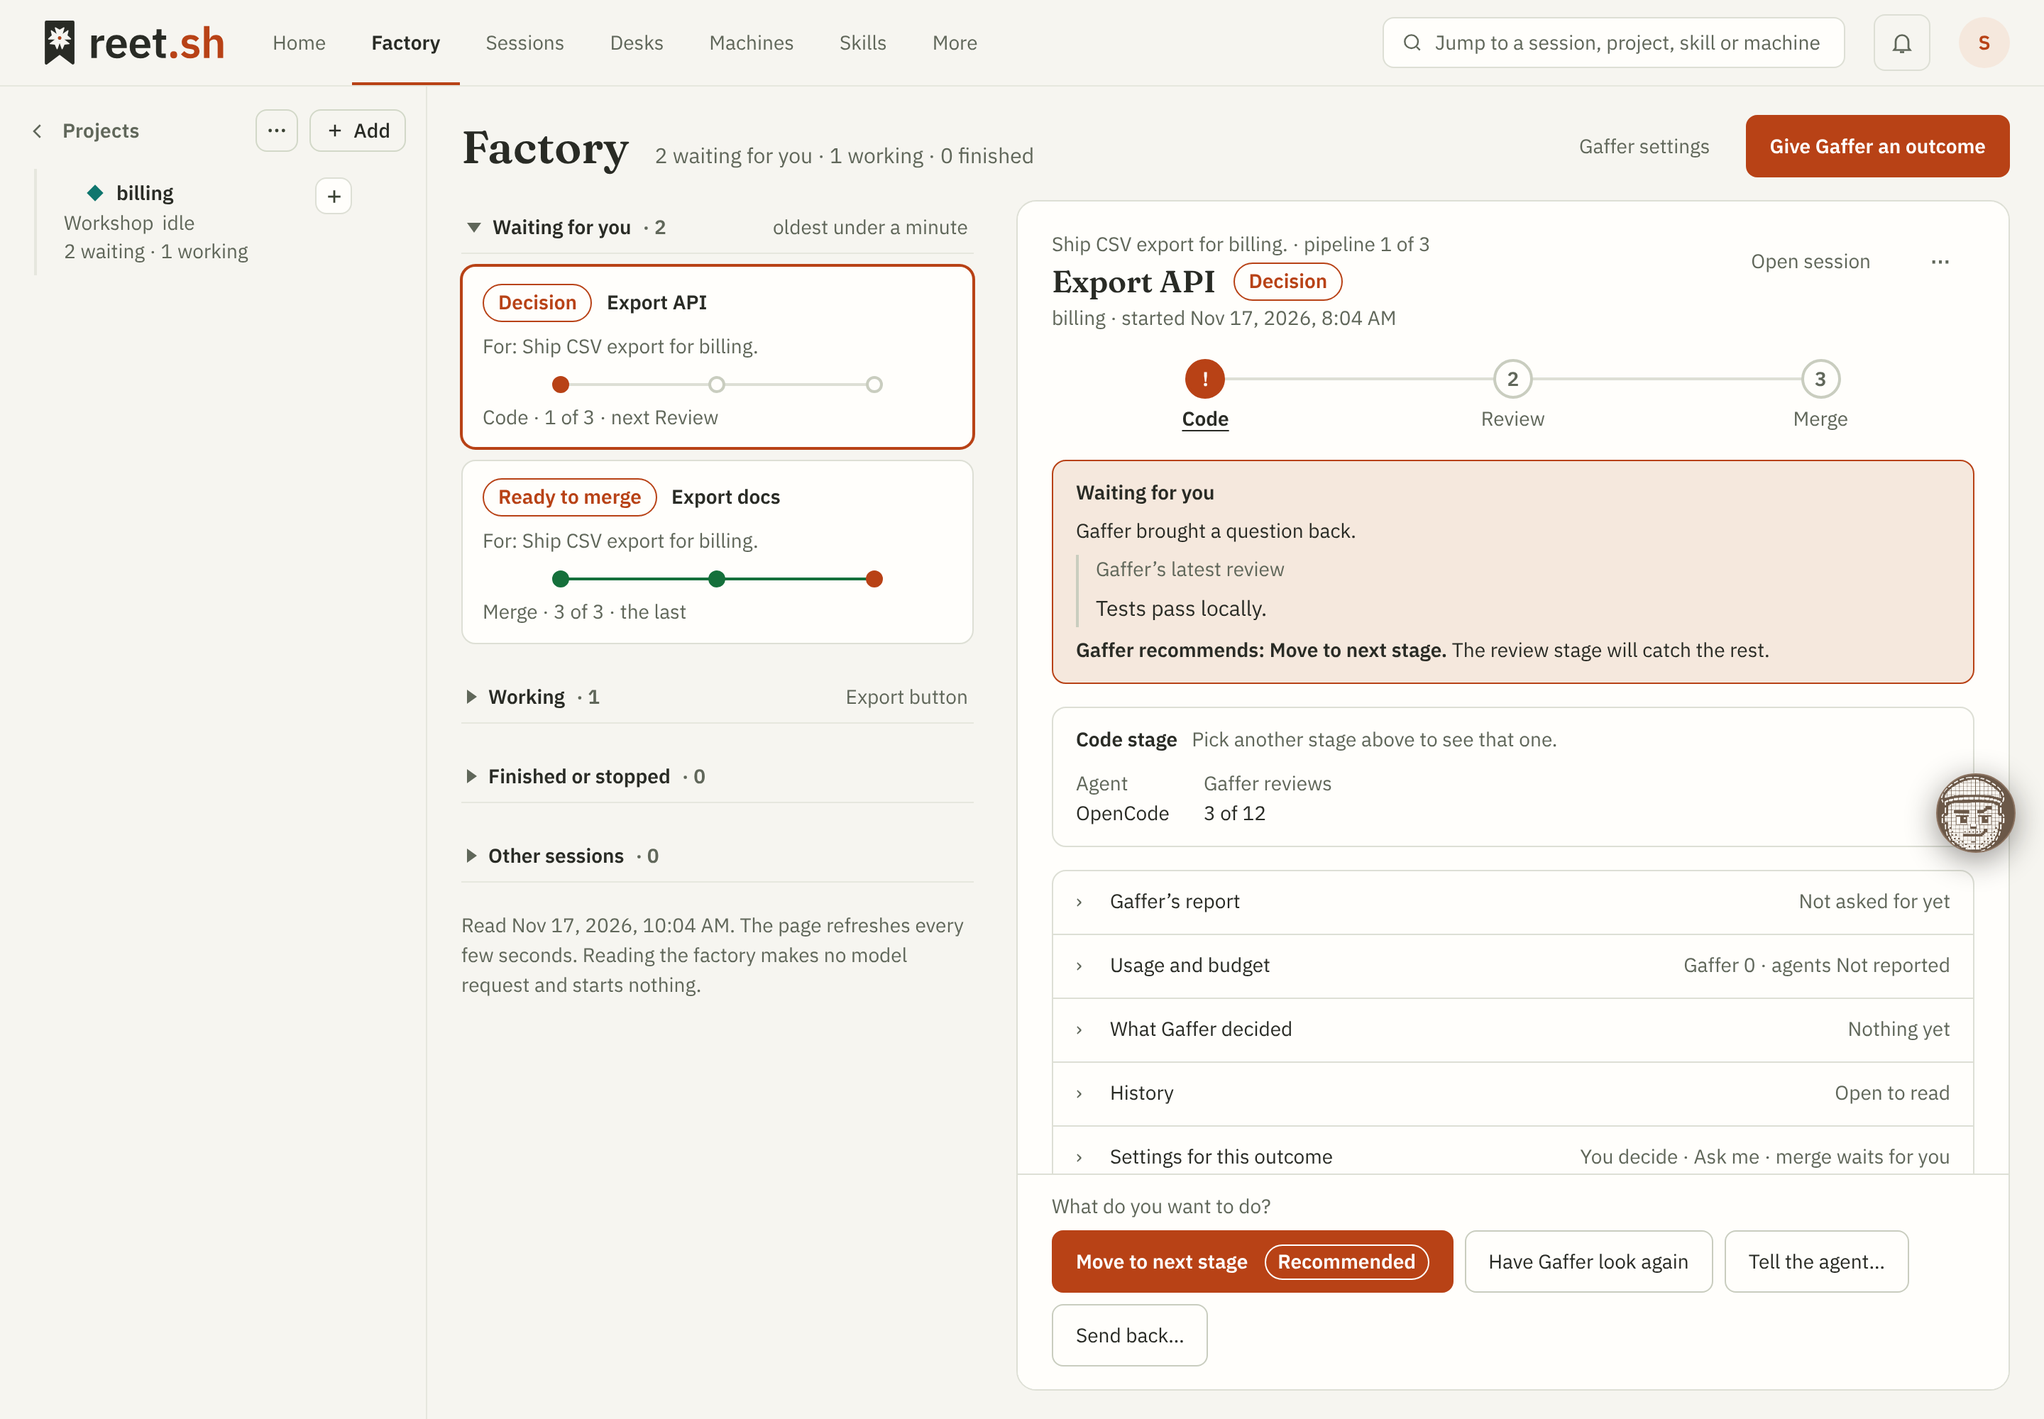
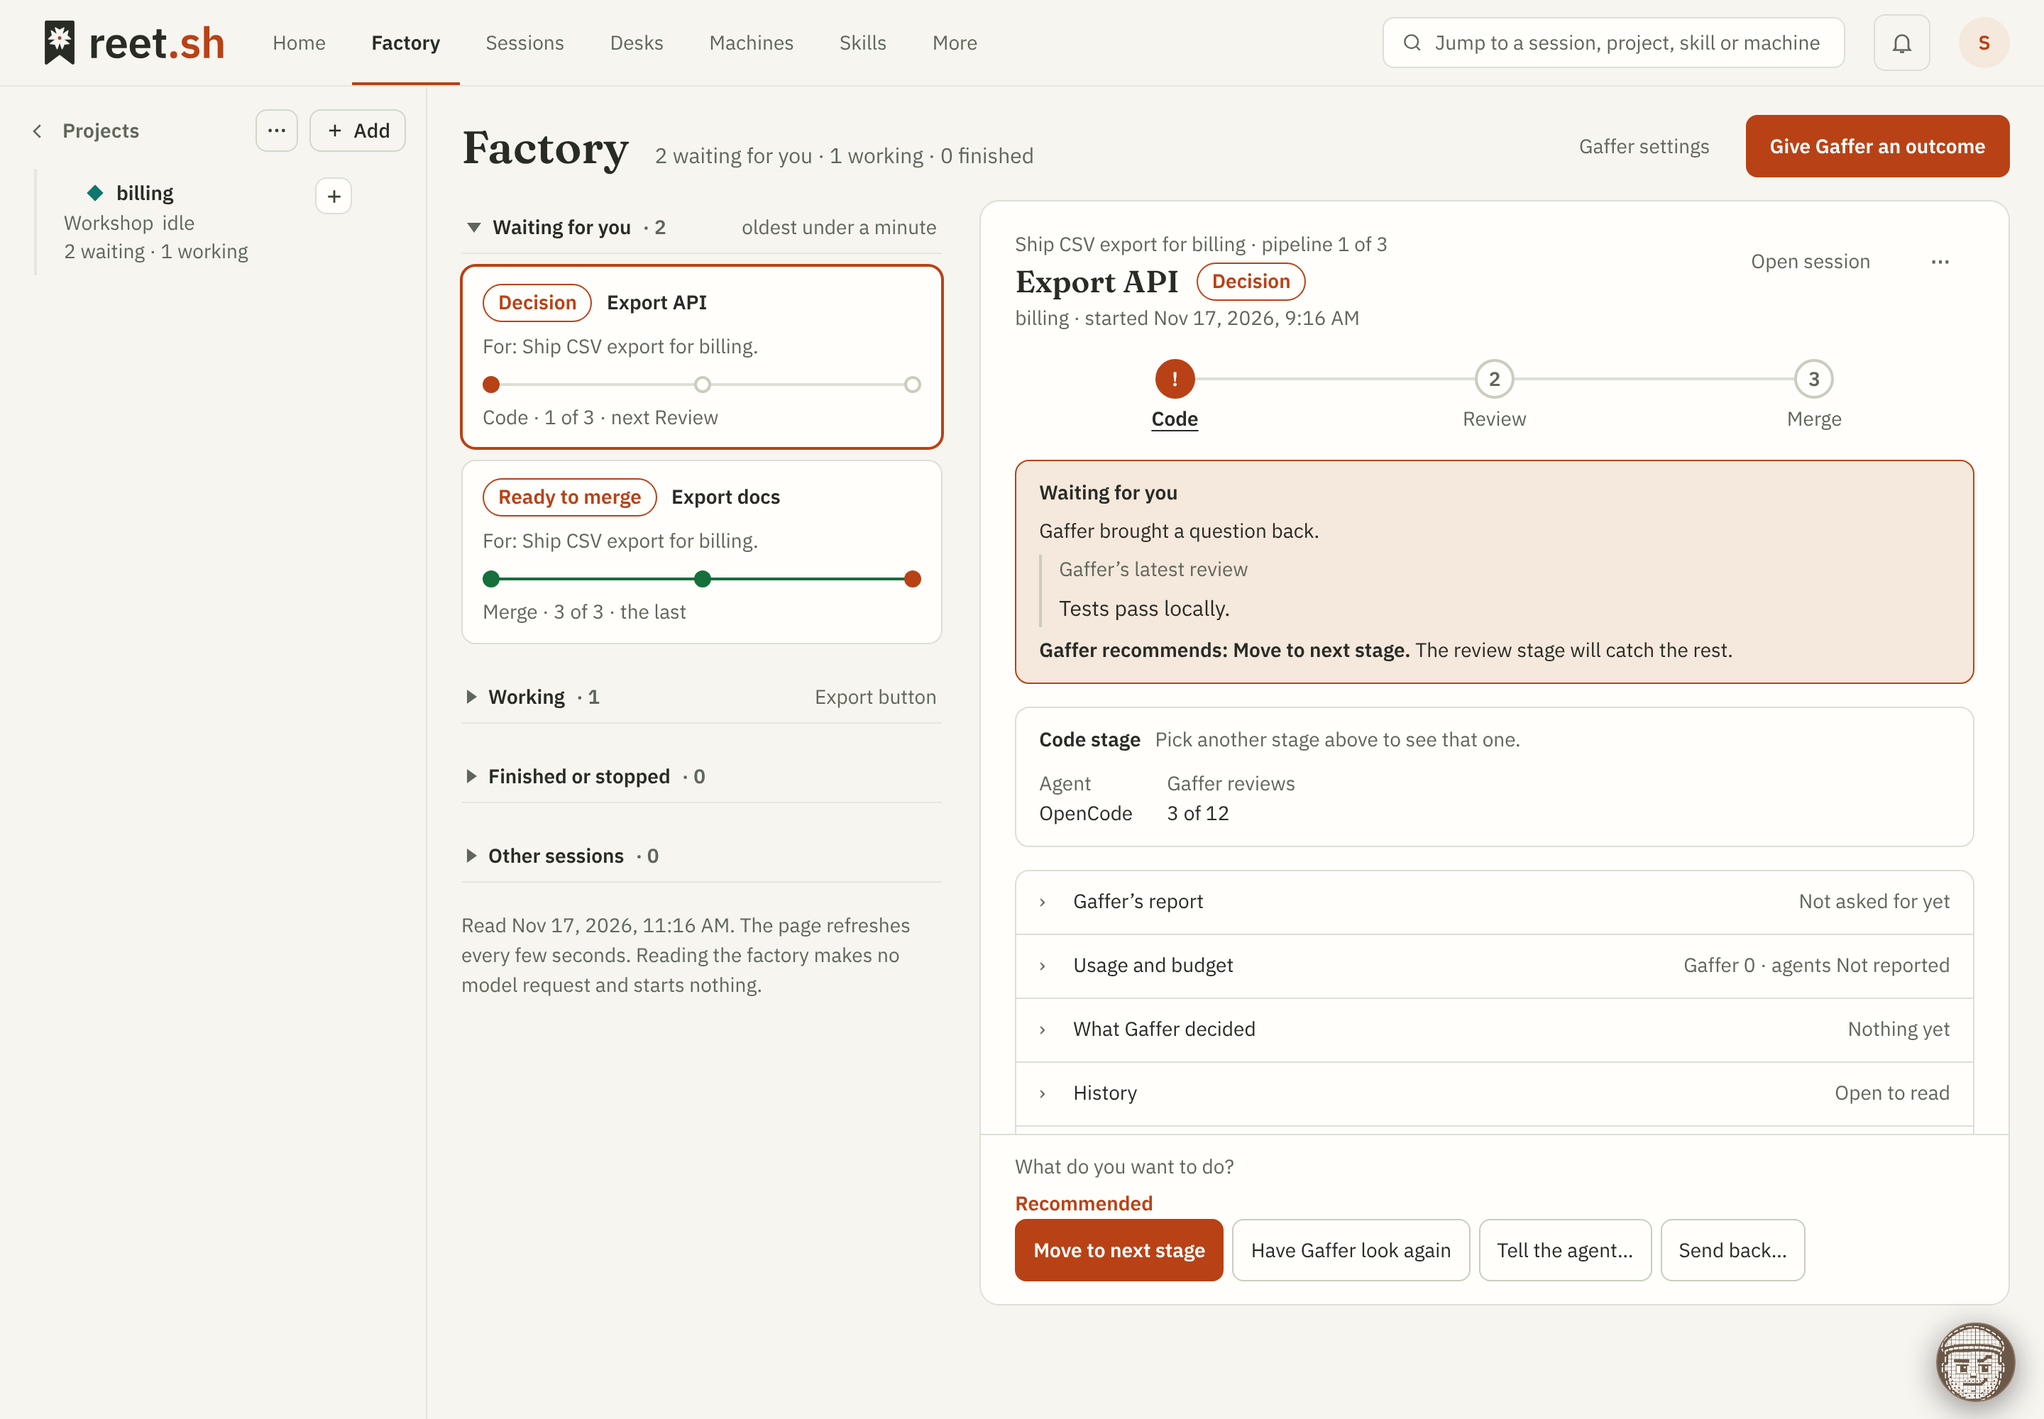
Say what the Factory rework does after its final pass, and retake its captures
The notes now say where Allow once and Deny are, what each width shows, that
Add pipelines is reached from a report as before, which widths ran in which
theme, that Restore and the Settings row confirmations are covered, and that
gaffer-goal passes unchanged. The strip kept for Gaffer's button over a narrow
list has a line along its top.

Claude-Session: https://claude.ai/code/session_011MNNzram3Xr2uZ9UFhX8yQ

diff --git a/web/src/lib/factory/Factory.svelte b/web/src/lib/factory/Factory.svelte
@@ -710,6 +710,7 @@
   .rest{flex:none;height:var(--launcher-strip);pointer-events:auto}
   .rest:not(.float){margin-top:-16px}
   .rest.float{position:sticky;z-index:3;bottom:var(--foot);margin:-20px calc(-1 * var(--gutter)) 0;background:var(--bg)}
+  :global(html[data-gaffer-anchor]:not([data-gaffer-editing])) .rest.float{box-shadow:0 -1px 0 var(--line)}
   .factory:has(.rest.float){padding-bottom:0}
   /* On a narrow screen the detail is the page, and its bar rests on whatever covers the foot of the screen: the phone's
      tab bar, else nothing. The strip the app keeps at the foot of every page for the floating button is in the bar. */

diff --git a/handoff.md b/handoff.md
@@ -43,7 +43,11 @@ scrolling alone, and the first waiting pipeline is open on arrival. On a tablet 
 - Gaffer's report, What Gaffer decided, History, and the totals with Goal and limits: closed rows in the detail that
   show their headline without being opened (Goal and limits is inside Usage and budget).
 - "Who did each stage": pick a stage in the detail and its facts show.
-- Add pipelines, Stop starting sessions, Stop following, Archive, Delete and Restore: one menu on the detail head.
+- Stop starting sessions, Stop following, Archive, Delete and Restore: one menu on the detail head, which closes on
+  Escape or a press outside it. Add pipelines is reached as before, from the proposals in a report (the **Gaffer's
+  report** row); the old page had no other way to it, so the menu has none.
+- An archived outcome's pipelines offer nothing but **Restore** in that menu: no bar, a card with only Details, the
+  report and the settings shown read-only.
 - Other sessions Gaffer follows: a fourth section of the list, closed at first.
 - The Projects panel: kept on a wide screen, each project saying how many pipelines wait and work. On a tablet or
   phone a **Projects** button opens a short picker that narrows the page.
@@ -54,8 +58,10 @@ scrolling alone, and the first waiting pipeline is open on arrival. On a tablet 
 - `StagePipeline.svelte`: the stages in three sizes (labelled, circles with a caption, dots with a caption).
 - `ListSection.svelte` and `sectionMemory.ts`: a section that opens and closes, and the per-browser memory of which
   are open (`reet.factory.sections.<user>`).
-- `WaitingItem.svelte`: one item, with its chip, stages, sentence and actions (Allow and Deny use the existing
-  `Approval`).
+- `WaitingItem.svelte`: one item, with its chip, its title as a heading, stages, sentence (Gaffer's recommendation and
+  reason when it advised) and actions. A pipeline whose session holds a tool approval offers **Allow once** and
+  **Deny** (the existing `Approval`, posting what Home posts) on the narrow card and at the head of the detail's bar on
+  every width; a wide screen's list items carry no buttons.
 - `PipelineDetail.svelte`: the detail, its rows, its action bar and its outcome menu.
 - `ProjectPicker.svelte`: the Projects button and dialog on a narrow screen. The wide panel is `ProjectRail`, which
   gained one optional `detail` prop for the counts.
@@ -72,26 +78,50 @@ look again" and not "Move to next stage". Failed pipelines count as waiting for 
 **On a narrow screen**, opening a pipeline adds a history entry, so the browser's Back button returns to the list.
 Previous / next and a wide screen change the address without adding one.
 
+**The floating Gaffer button.** The page keeps it clear of content with the app's own mechanism
+(`floatingLauncher.ts`, `data-floating-clearance`), which learned one case: a region marked `"dock"` keeps a strip for
+Gaffer's launcher, which rests centred on it instead of above it (only the launcher docks; the sync dock ignores such
+regions). On a narrow detail the strip is the end of the action bar's first line, and the bar sits at the very foot of
+the screen, on the tab bar of a phone, with no band beneath it. Over a narrow list the strip stays at the foot of the
+screen and the list scrolls under it; on a wide page it is the last line of the page, under the list and the detail.
+Without the launcher (no Gaffer, or the keyboard up) the strips take no room.
+
+**Other changes in the final pass.** Named stages keep each word whole and, when they do not fit (eight on a phone),
+scroll sideways inside their own box with the stage in hand in view; the compact item's dots run edge to edge; a
+failed stage is not marked current; "Recommended" is a caption above the filled button, so the bar's four choices keep
+one line at 1280 px and wider; when Gaffer advises opening the session, that is the bar's filled first choice (a link);
+the detail's eyebrow drops the objective's closing full stop; History is read again at every opening; an address
+naming an archived pipeline (`?pipeline=`) shows archived outcomes; the Projects button names a group chosen on the
+wide panel; archiving or deleting from a narrow detail returns to the list, clears the address and focuses the list's
+first item; Other sessions opens by itself while a goal in it needs the person, and its summary no longer counts such
+a goal as followed too.
+
 **Not done.**
 - Home is the next piece and still shows the old two lists ("Factory pipelines" and "Needs you"). The `row` layout of
   `WaitingItem` and the Home sections are in the next plan. The bell count has not changed.
+- F5 in part: `gaffer-floor` (the "running chats not followed" link) and `session-end-gaffer` (the chat's Factory
+  link) still open Other sessions by hand. Their fixtures hold no goal that needs the person, so by the rule asked for
+  (open while something in it needs you) the section rightly stays closed there; opening it in those cases would be a
+  different rule, which was not asked for. `home-followups` asserts it open on arrival.
 - Small things found in review and left: `factoryList.ts` casts a read-only map for `waitingDecisions`, and its
   record types copy fields of the outcome types so they could drift; the finished-section summary, minutes and days
   in "waiting", and ordering by a goal's last change have no unit test; the circles caption calls every earlier stage
-  "done" whatever its state; a failed stage is marked as the current one; a section has no `aria-controls`; the
-  compact item is a button holding block elements; the outcome menu does not close on an outside click or Escape;
-  Other sessions' summary can count a session twice; the approval mapping is copied from `home.ts`; the counts line
-  and the section count disagree while archived pipelines are shown; on a wide screen Back can move focus to a
-  Details button though no detail closed; a section opened by a link is not saved; a group scope set on the wide
-  panel and then narrowed reads "Projects: all"; the Gaffer launcher can sit over the edge of a card, and over
-  text on a phone, since it floats above the page everywhere; and the floor's filter row scrolls sideways on a phone
-  (its own old design).
-- Tests do not cover the YOLO or merge confirmation from the new Settings row beyond `factory-decision`, nor Restore.
+  "done" whatever its state; a section has no `aria-controls`; the compact item is a button holding block elements;
+  the approval mapping is copied from `home.ts`; the counts line and the section count disagree while archived
+  pipelines are shown; on a wide screen Back can move focus to a Details button though no detail closed; a section
+  opened by a link is not saved; the floor's filter row scrolls sideways on a phone (its own old design).
+- The floating button is kept clear where the captures are taken and wherever its strip is in view; a narrow detail
+  with no action at all keeps an empty strip at its foot for it.
 
-**Checked.** `npm run check` with 0 errors; `factory-pieces` (new), `factory-decision`, `gaffer-factory-session`,
-`gaffer-factory`, `gaffer-outcome`, `gaffer-floor`, `gaffer-followed`, `home-followups`, `session-end-gaffer`,
-`workbench` and `gaffer-goal` on one production build, in the browser at 1440, 1280, 834 and 390 in both themes. The
-captures are in [docs/ui-verification.md](docs/ui-verification.md).
+**Checked.** `npm run check` with 0 errors; on one production build `factory-pieces`, `factory-decision`,
+`gaffer-factory-session`, `gaffer-factory`, `gaffer-outcome`, `gaffer-floor`, `gaffer-followed`, `home-followups`,
+`session-end-gaffer`, `workbench`, `gaffer-goal` (unchanged), `gaffer-settings`, `home`, `sessions`,
+`session-workspace` and `calm-session`. Widths and themes as run: `factory-pieces` at 1440 (light and dark), 1280
+(light), 1000 and 834 (light) and 390 (dark for the list, the detail and the capture; light for the new checks of
+touch sizes, eight stages, long part names and the floating button); `gaffer-factory` at 1440 (light and dark), 1280
+(light) and 390 (light); `gaffer-factory-session` at 1440 (light) and 390 (dark). Restore is covered by
+`gaffer-factory` (the archived pass), and the YOLO and merge-on-YOLO confirmations from the Settings row by
+`factory-pieces`. The captures are in [docs/ui-verification.md](docs/ui-verification.md).
 
 **Not checked.** No real machine: every pipeline in the tests is a fixture, so a real run has not shown the page. No
 real tablet or phone: widths are emulated, and the owner's Android tablet has not been tried. The keyboard is not

diff --git a/docs/ui-verification.md b/docs/ui-verification.md
@@ -4391,7 +4391,9 @@ the keyboard, the site bar, desk bar and tool row are gone and the tab bar stays
 The Factory page now has Waiting for you, Working, Finished or stopped and Other sessions as sections that open and
 close, and one detail for the chosen pipeline. Checked against a production build in `factory-pieces.e2e.mjs`, with
 `factory-decision`, `gaffer-factory-session`, `gaffer-factory`, `gaffer-outcome`, `gaffer-floor`, `gaffer-followed`,
-`home-followups`, `session-end-gaffer`, `workbench` and `gaffer-goal` updated to the new structure and passing.
+`home-followups`, `session-end-gaffer` and `workbench` updated to the new structure and passing, and `gaffer-goal`
+passing unchanged (it does not open the Factory page's list). `gaffer-settings`, `home`, `sessions`,
+`session-workspace` and `calm-session` pass too.
 
 - **1440 and 1280 (light and dark):** the list beside the detail, the first waiting pipeline open on arrival, the
   action bar resting at the foot of the detail, no sideways scroll, a link to a pipeline opening it, a section left
@@ -4402,10 +4404,22 @@ close, and one detail for the chosen pipeline. Checked against a production buil
   the page.
 - **390 (dark):** stages as circles with a caption, buttons at least 44 px high, no sideways scroll with five
   pipelines of eight stages, and the same Back behaviour.
-- **Looked at, by eye, at twice the pixel density:** every capture below. One thing was fixed from them: the detail now
-  fills the screen on a tablet, so its bar rests at the foot instead of following the last row. Left as it is:
-  the floating Gaffer button sits over the edge of a card or a line of text while the page scrolls under it, as it
-  does on every page. No text is below 14 px.
+- **Final fix pass (same day):** an approval is answered with Allow once and Deny on the 834 card and in the detail
+  at 1280 and 834, and posts what Home posts; an archived outcome's detail has no bar and its cards only Details; the
+  waiting card says Gaffer's recommendation; eight named stages on a 390 detail keep their words whole and scroll
+  inside their own box, every stage at least 44 px; four long part names wrap between words with no circle
+  overlapping another; a pipeline with no stages lists and opens; the YOLO and merge-on-YOLO confirmations open from
+  the Settings row; `?pipeline=` of an archived outcome shows it; History is read at every opening; the bar's four
+  choices stay on one line at 1280 and 1440; the outcome menu closes on Escape and outside; a group chosen on the wide
+  panel names the Projects button at 834; archiving from an 834 detail returns to the list.
+- **The floating Gaffer button:** checked at 1440, 834 and 390 once it has settled: at none of them is a line of text,
+  a control, a list item or the stage card under it (the test looks at what is on top under a grid of points across
+  it). On a narrow detail it rests at the end of the bar's first line, and the bar sits at the foot of the screen (on
+  the tab bar at 390) with no band under it, also when scrolled to the end. Over a narrow list it rests in a strip at
+  the foot of the screen that the list scrolls under; on the wide page, in the page's last line.
+- **Looked at, by eye, at twice the pixel density:** every capture below, retaken after the final fix pass. Nothing is
+  clipped, overlapping or cramped, there is no blank band under the bar, and the floating button is over no text or
+  control. No text is below 14 px.
 - **Not checked:** a real machine, a real tablet or phone, or a screen reader. These are automated browser checks.
 
 ![Factory, 1440 light](images/ui/factory-rework-1440-light.png)

diff --git a/CHANGELOG.md b/CHANGELOG.md
@@ -5,15 +5,24 @@ this file existed releases were described on their GitHub release pages.
 
 ## Unreleased
 
-- **Factory**: the page now opens on what is waiting for you. Each item in
-  **Waiting for you** shows its stages by name and carries the action it needs
-  (for example **Move to next stage**, **Approve the merge** or **Try again**),
-  so most things can be dealt with without opening anything. **Details** opens
-  one pipeline with one bar of actions at the bottom and one **Settings for this
-  outcome** row for who decides, approvals and merge. **Working**, **Finished
-  or stopped** and **Other sessions** open and close, say what is inside when
-  closed, and are remembered in your browser; only **Waiting for you** is open
-  the first time. On a tablet or phone a pipeline opens as its own screen and
+- **Factory**: the page now opens on what is waiting for you, in a list beside
+  one pipeline's detail. On a wide screen each item in the list shows its
+  stages as dots with a caption, and its action is in the detail beside it. On
+  a tablet each item names its stages and carries the action it needs (for
+  example **Move to next stage**, **Approve the merge** or **Try again**); on a
+  phone the stages are circles with a caption and the action is on the item
+  too, so most things can be dealt with without opening anything. When Gaffer
+  advised, the item says what it recommends and why. A tool approval is
+  answered with **Allow once** or **Deny** on the item (tablet and phone) and
+  in the detail (every width). **Details** opens one pipeline with one bar of
+  actions at the bottom and one **Settings for this outcome** row for who
+  decides, approvals and merge. An archived outcome's pipelines can be read
+  and restored, and offer nothing else. **Working**, **Finished or stopped**
+  and **Other sessions** open and close, say what is inside when closed, and
+  are remembered in your browser; only **Waiting for you** is open the first
+  time, and **Other sessions** also opens by itself while a goal in it needs
+  you. Gaffer's floating button rests in a strip of its own and covers
+  nothing on the page. On a tablet or phone a pipeline opens as its own screen and
   the browser's Back button returns to the list. Projects stay in the left
   column on a wide screen, with how many of each project's pipelines are
   waiting and working; on a tablet or phone a **Projects** button opens the

diff --git a/docs/handoffs/gaffer-factory-floor.md b/docs/handoffs/gaffer-factory-floor.md
@@ -1543,6 +1543,7 @@ recommended order, waiting decisions and the log's wording; `gaffer-factory`, `g
 
 The Factory page this handoff describes (outcome cards with every pipeline open, the tiles, Expand all) was replaced
 by a list of pipelines in sections and one detail for the pipeline chosen. The floor itself is unchanged, but it is
-now the closed section **Other sessions** at the foot of the list, so open it once before looking for the filters.
+now the section **Other sessions** at the foot of the list. It is closed at first, and opens by itself while a goal in
+it needs the person; otherwise open it once before looking for the filters.
 Gaffer's report, the totals, Goal and limits, the settings and the buttons moved into the detail. See
 [FACTORY-REWORK-1 in handoff.md](../../handoff.md) for where each thing went and the files.
